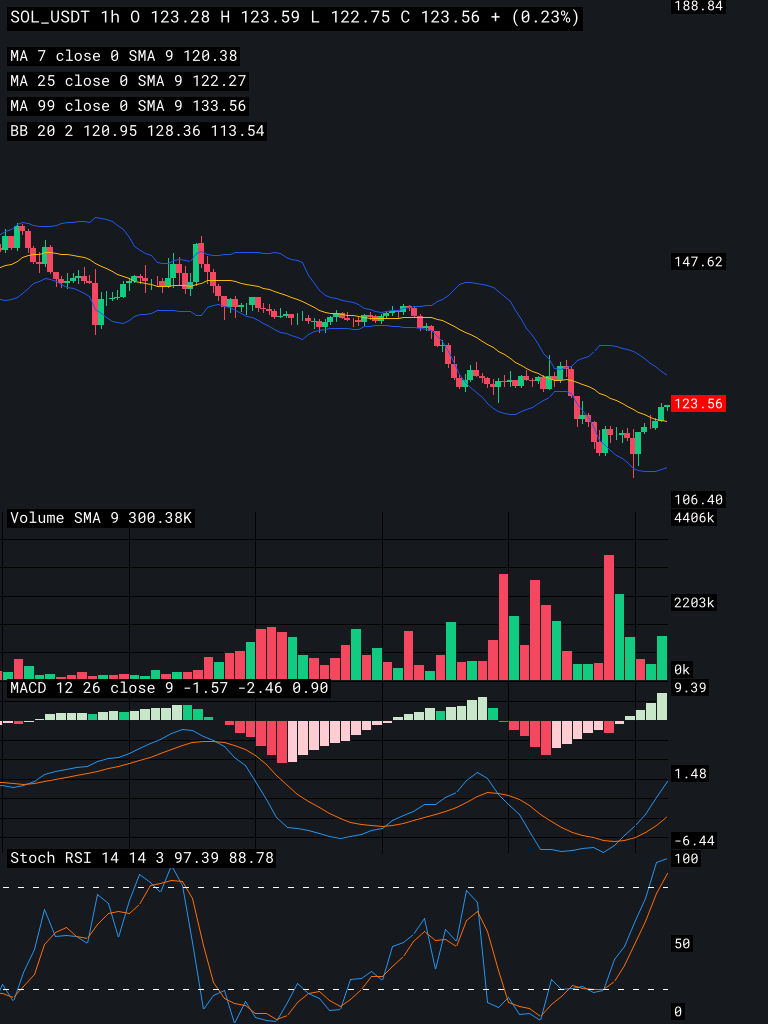
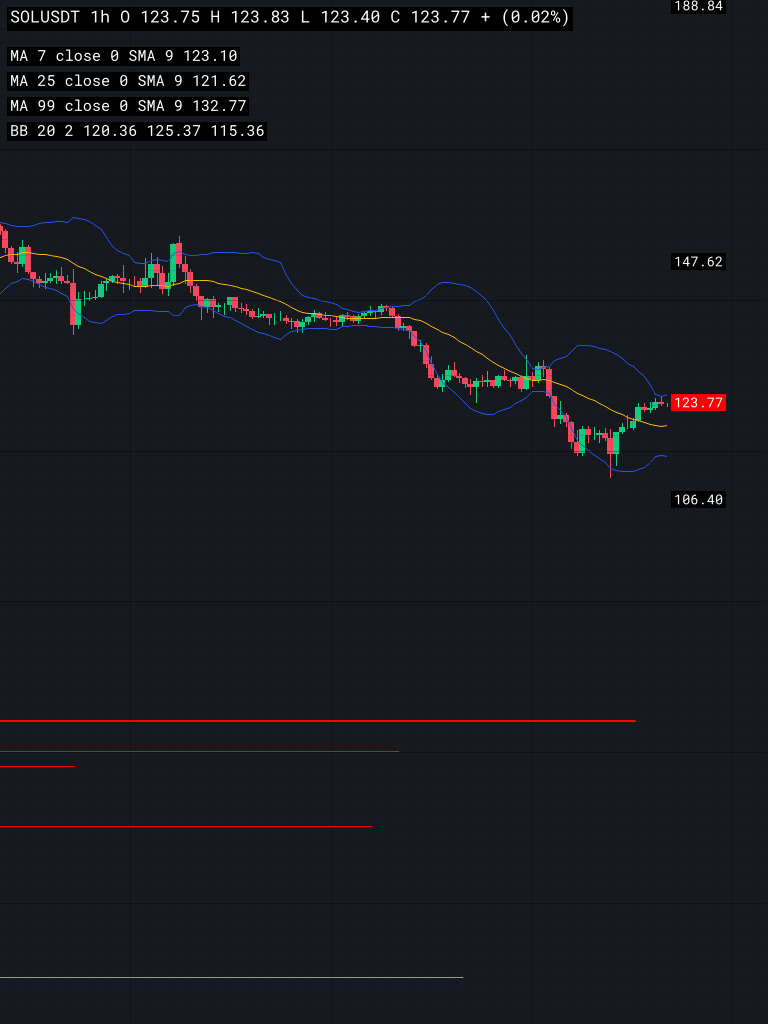
wip: orderbook

diff --git a/feeder/src/charts/painters.rs b/feeder/src/charts/painters.rs
@@ -3,7 +3,10 @@ use ab_glyph::ScaleFont;
 use ab_glyph::{Font, PxScale};
 use chrono::DateTime;
 use chrono_tz::Tz;
-use common::Kline;
+use common::numbers::{
+    convert_grouped_data, group_by_fractional_part, group_by_fractional_part_f32, FractionalPart,
+};
+use common::{Kline, OrderBook};
 use image::{ImageBuffer, Rgb};
 use imageproc::drawing::{draw_filled_rect_mut, draw_text_mut, text_size};
 use imageproc::rect::Rect;
@@ -11,7 +14,7 @@ use m4rs::{bolinger_band, macd, Candlestick as M4rsCandlestick};
 use plotters::coord::types::RangedCoordf32;
 use plotters::prelude::*;
 use plotters::style::full_palette::{GREEN_100, RED_100};
-
+use std::collections::HashMap;
 use std::error::Error;
 
 use super::candle::*;
@@ -978,6 +981,74 @@ pub fn draw_point_on_candle(
             vec![(entry_dt, entry_price), (target_dt, target_price)],
             short_line_style,
         ))?;
+    }
+
+    Ok(())
+}
+
+pub fn draw_order_book(
+    root: &DrawingArea<BitMapBackend<'_>, plotters::coord::Shift>,
+    orderbook_data: &OrderBook,
+    min_price: f32,
+    max_price: f32,
+) -> Result<(), Box<dyn Error>> {
+    // Group the order book data f32 type.
+    let (grouped_bids, grouped_asks): (HashMap<u32, f64>, HashMap<u32, f64>) =
+        group_by_fractional_part_f32(orderbook_data, FractionalPart::One);
+
+    // Transform group to hashmap
+    let (bid_volumes, ask_volumes) =
+        convert_grouped_data(&grouped_bids, &grouped_asks, min_price, max_price);
+
+    // Determine the maximum volume for scaling the horizontal axis
+    let max_volume = bid_volumes
+        .values()
+        .chain(ask_volumes.values())
+        .copied()
+        .filter(|v| v.is_finite())
+        .fold(0.0, f32::max);
+
+    // Create the chart context
+    let mut chart =
+        ChartBuilder::on(root).build_cartesian_2d(0f32..max_volume * 1.1, min_price..max_price)?;
+
+    chart.configure_mesh().draw()?;
+
+    // Prepare bid data for the histogram
+    let bid_data: Vec<(f32, f32)> = bid_volumes
+        .iter()
+        .map(|(price_bits, volume)| (f32::from_bits(*price_bits), *volume))
+        .collect();
+
+    // Prepare ask data for the histogram
+    let ask_data: Vec<(f32, f32)> = ask_volumes
+        .iter()
+        .map(|(price_bits, volume)| (f32::from_bits(*price_bits), *volume))
+        .collect();
+
+    println!("bid_data:{:?}", bid_data);
+    println!("ask_data:{:?}", ask_data);
+
+    // Draw the bid histograms
+    for (price, volume) in bid_data.iter() {
+        if price.is_finite() && volume.is_finite() {
+            let style = ShapeStyle::from(&GREEN).filled();
+            chart.draw_series(std::iter::once(Rectangle::new(
+                [(0.0, *price), (*volume, *price + 0.1)],
+                style,
+            )))?;
+        }
+    }
+
+    // Draw the ask histograms
+    for (price, volume) in ask_data.iter() {
+        if price.is_finite() && volume.is_finite() {
+            let style = ShapeStyle::from(&RED).filled();
+            chart.draw_series(std::iter::once(Rectangle::new(
+                [(0.0, *price), (*volume, *price + 0.1)],
+                style,
+            )))?;
+        }
     }
 
     Ok(())

diff --git a/common/src/transforms/numbers.rs b/common/src/transforms/numbers.rs
@@ -1,5 +1,5 @@
-use common::OrderBook;
-use std::collections::BTreeMap;
+use crate::OrderBook;
+use std::collections::{BTreeMap, HashMap};
 use strum::{Display, EnumString};
 
 #[derive(Debug, EnumString, Display)]
@@ -54,6 +54,73 @@ pub fn group_by_fractional_part(
     println!("Grouped Asks: {:?}", grouped_asks);
 
     (grouped_bids, grouped_asks)
+}
+
+pub fn group_by_fractional_part_f32(
+    orderbook_data: &OrderBook,
+    fractional_part: FractionalPart,
+) -> (HashMap<u32, f64>, HashMap<u32, f64>) {
+    let mut grouped_bids: HashMap<u32, f64> = HashMap::new();
+    let mut grouped_asks: HashMap<u32, f64> = HashMap::new();
+
+    let multiplier = match fractional_part {
+        FractionalPart::OneTenth => 10.0,
+        FractionalPart::One => 1.0,
+        FractionalPart::Ten => 0.1,
+        FractionalPart::Hundred => 0.01,
+    };
+
+    for bid in &orderbook_data.bids {
+        if bid.len() == 2 {
+            if let (Ok(price_str), Ok(amount_str)) = (bid[0].parse::<f64>(), bid[1].parse::<f64>())
+            {
+                let price = (price_str * multiplier).floor() / multiplier;
+                if price.is_finite() {
+                    grouped_bids.insert(((price as f32).to_bits() as u32).into(), amount_str);
+                }
+            }
+        }
+    }
+
+    for ask in &orderbook_data.asks {
+        if ask.len() == 2 {
+            if let (Ok(price_str), Ok(amount_str)) = (ask[0].parse::<f64>(), ask[1].parse::<f64>())
+            {
+                let price = (price_str * multiplier).ceil() / multiplier;
+                if price.is_finite() {
+                    grouped_asks.insert(((price as f32).to_bits() as u32).into(), amount_str);
+                }
+            }
+        }
+    }
+
+    (grouped_bids, grouped_asks)
+}
+
+pub fn convert_grouped_data(
+    grouped_bids: &HashMap<u32, f64>,
+    grouped_asks: &HashMap<u32, f64>,
+    min_price: f32,
+    max_price: f32,
+) -> (HashMap<u32, f32>, HashMap<u32, f32>) {
+    let mut bid_volumes: HashMap<u32, f32> = HashMap::new();
+    let mut ask_volumes: HashMap<u32, f32> = HashMap::new();
+
+    for (price_bits, volume) in grouped_bids.iter() {
+        let price = f32::from_bits(*price_bits);
+        if price >= min_price && price <= max_price && price.is_finite() {
+            bid_volumes.insert(*price_bits, *volume as f32);
+        }
+    }
+
+    for (price_bits, volume) in grouped_asks.iter() {
+        let price = f32::from_bits(*price_bits);
+        if price >= min_price && price <= max_price && price.is_finite() {
+            ask_volumes.insert(*price_bits, *volume as f32);
+        }
+    }
+
+    (bid_volumes, ask_volumes)
 }
 
 struct PriceAmount {

diff --git a/feeder/src/charts/candle.rs b/feeder/src/charts/candle.rs
@@ -5,6 +5,7 @@ use ab_glyph::FontArc;
 use ab_glyph::PxScale;
 use chrono_tz::Tz;
 use common::Kline;
+use common::OrderBook;
 use image::{ImageBuffer, Rgb};
 use plotters::coord::types::RangedCoordf32;
 use plotters::prelude::*;
@@ -47,6 +48,7 @@ pub struct Chart {
     pub font_data: Option<Vec<u8>>,
     pub candle_width: u32,
     pub points: Vec<(f32, f32)>,
+    pub orderbook_data: Option<OrderBook>,
     pub point_style: Option<PointStyle>,
     pub lines: Vec<[(f32, f32); 2]>,
     pub line_style: Option<LineStyle>,
@@ -119,6 +121,10 @@ impl Chart {
     #[allow(dead_code)]
     pub fn with_labels(mut self, labels: Vec<(f32, f32, String)>) -> Self {
         self.labels = labels;
+        self
+    }
+    pub fn with_orderbook(mut self, orderbook_data: OrderBook) -> Self {
+        self.orderbook_data = Some(orderbook_data);
         self
     }
 
@@ -252,6 +258,11 @@ impl Chart {
                 &self.long_signals,
                 &self.short_signals,
             )?;
+
+            // Draw order book
+            if let Some(orderbook_data) = &self.orderbook_data {
+                draw_order_book(&root, orderbook_data, min_price, max_price)?;
+            }
         } // `root` goes out of scope here, ending the borrow of `buffer`
 
         // Create imgbuf after root is dropped
@@ -331,10 +342,11 @@ mod test {
     use super::*;
     use chrono_tz::Asia::Tokyo;
     use common::binance::fetch_binance_kline_data;
+    use common::binance::fetch_orderbook_depth;
 
     #[tokio::test]
     async fn entry_point() {
-        let pair_symbol = "SOL_USDT";
+        let pair_symbol = "SOLUSDT";
         let timeframe = "1h";
         let font_data = include_bytes!("../../RobotoMono-Regular.ttf").to_vec();
 
@@ -342,6 +354,8 @@ mod test {
         let candle_data = fetch_binance_kline_data::<Kline>(pair_symbol, timeframe, limit)
             .await
             .unwrap();
+
+        let orderbook = fetch_orderbook_depth(pair_symbol, 1000).await.unwrap();
 
         // Generate mock signals based on fixed candle ranges
         let mut long_signals = Vec::new();
@@ -401,9 +415,10 @@ mod test {
             .with_past_candle(candle_data)
             .with_title(pair_symbol)
             .with_font_data(font_data)
-            .with_volume()
-            .with_macd()
-            .with_stoch_rsi()
+            // .with_volume()
+            // .with_macd()
+            // .with_stoch_rsi()
+            .with_orderbook(orderbook)
             .with_bollinger_band()
             // .with_long_signals(long_signals)
             // .with_short_signals(short_signals)

diff --git a/cooker/src/providers/prompter.rs b/cooker/src/providers/prompter.rs
@@ -2,10 +2,10 @@ use chrono::Utc;
 use common::OrderBook;
 use jup_sdk::perps::PerpsPosition;
 
-use crate::transforms::numbers::btree_map_to_csv;
-use crate::transforms::numbers::group_by_fractional_part;
-use crate::transforms::numbers::top_n_bids_asks;
-use crate::transforms::numbers::FractionalPart;
+use common::transforms::numbers::btree_map_to_csv;
+use common::transforms::numbers::group_by_fractional_part;
+use common::transforms::numbers::top_n_bids_asks;
+use common::transforms::numbers::FractionalPart;
 
 use super::core::PriceHistory;
 

diff --git a/common/src/prices.rs b/common/src/prices.rs
@@ -66,7 +66,7 @@ impl From<Kline> for ConciseKline {
     }
 }
 
-#[derive(Debug, Deserialize, Serialize)]
+#[derive(Debug, Deserialize, Serialize, Clone, Default)]
 #[serde(rename_all = "camelCase")]
 pub struct OrderBook {
     pub last_update_id: i64,

diff --git a/common/src/lib.rs b/common/src/lib.rs
@@ -2,8 +2,10 @@ pub mod predictions;
 pub mod prices;
 pub mod sources;
 pub mod subscriptions;
+pub mod transforms;
 
 pub use predictions::*;
 pub use prices::*;
 pub use sources::*;
 pub use subscriptions::*;
+pub use transforms::*;

diff --git a/cooker/src/lib.rs b/cooker/src/lib.rs
@@ -3,7 +3,6 @@ use providers::gemini::{GeminiModel, GeminiProvider};
 
 mod predictions;
 mod providers;
-mod transforms;
 
 use common::jup::get_preps_position;
 use worker::*;
